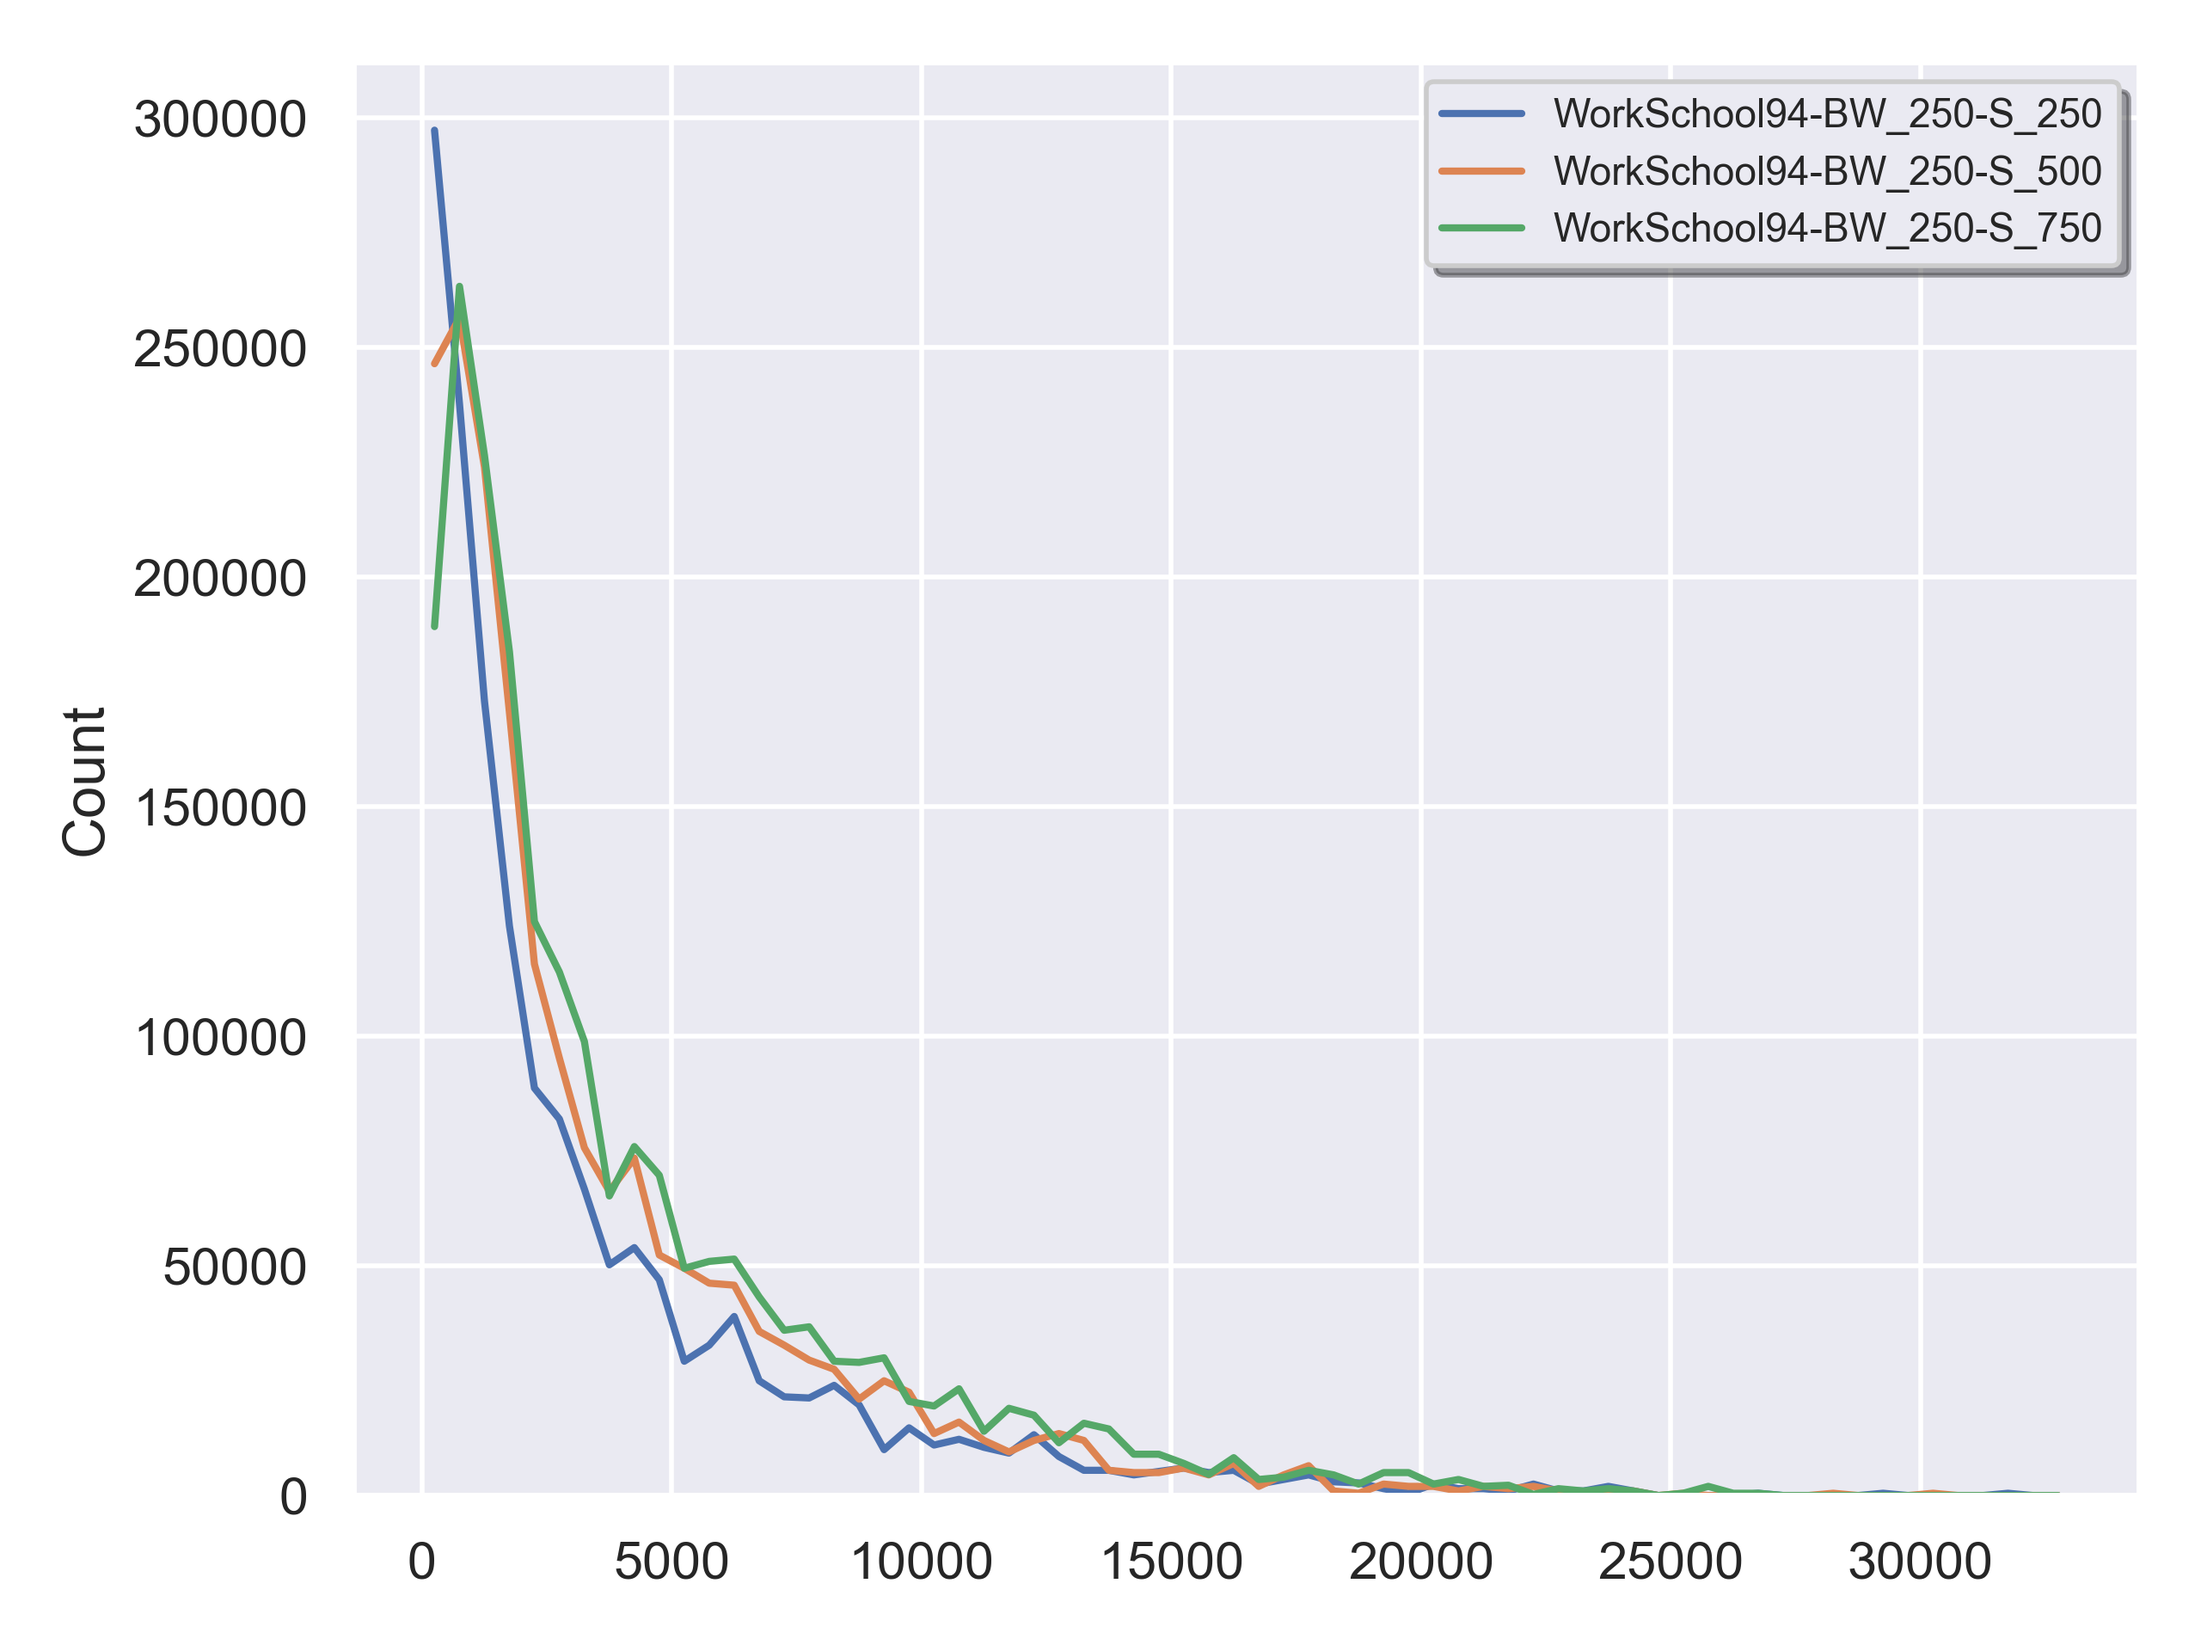
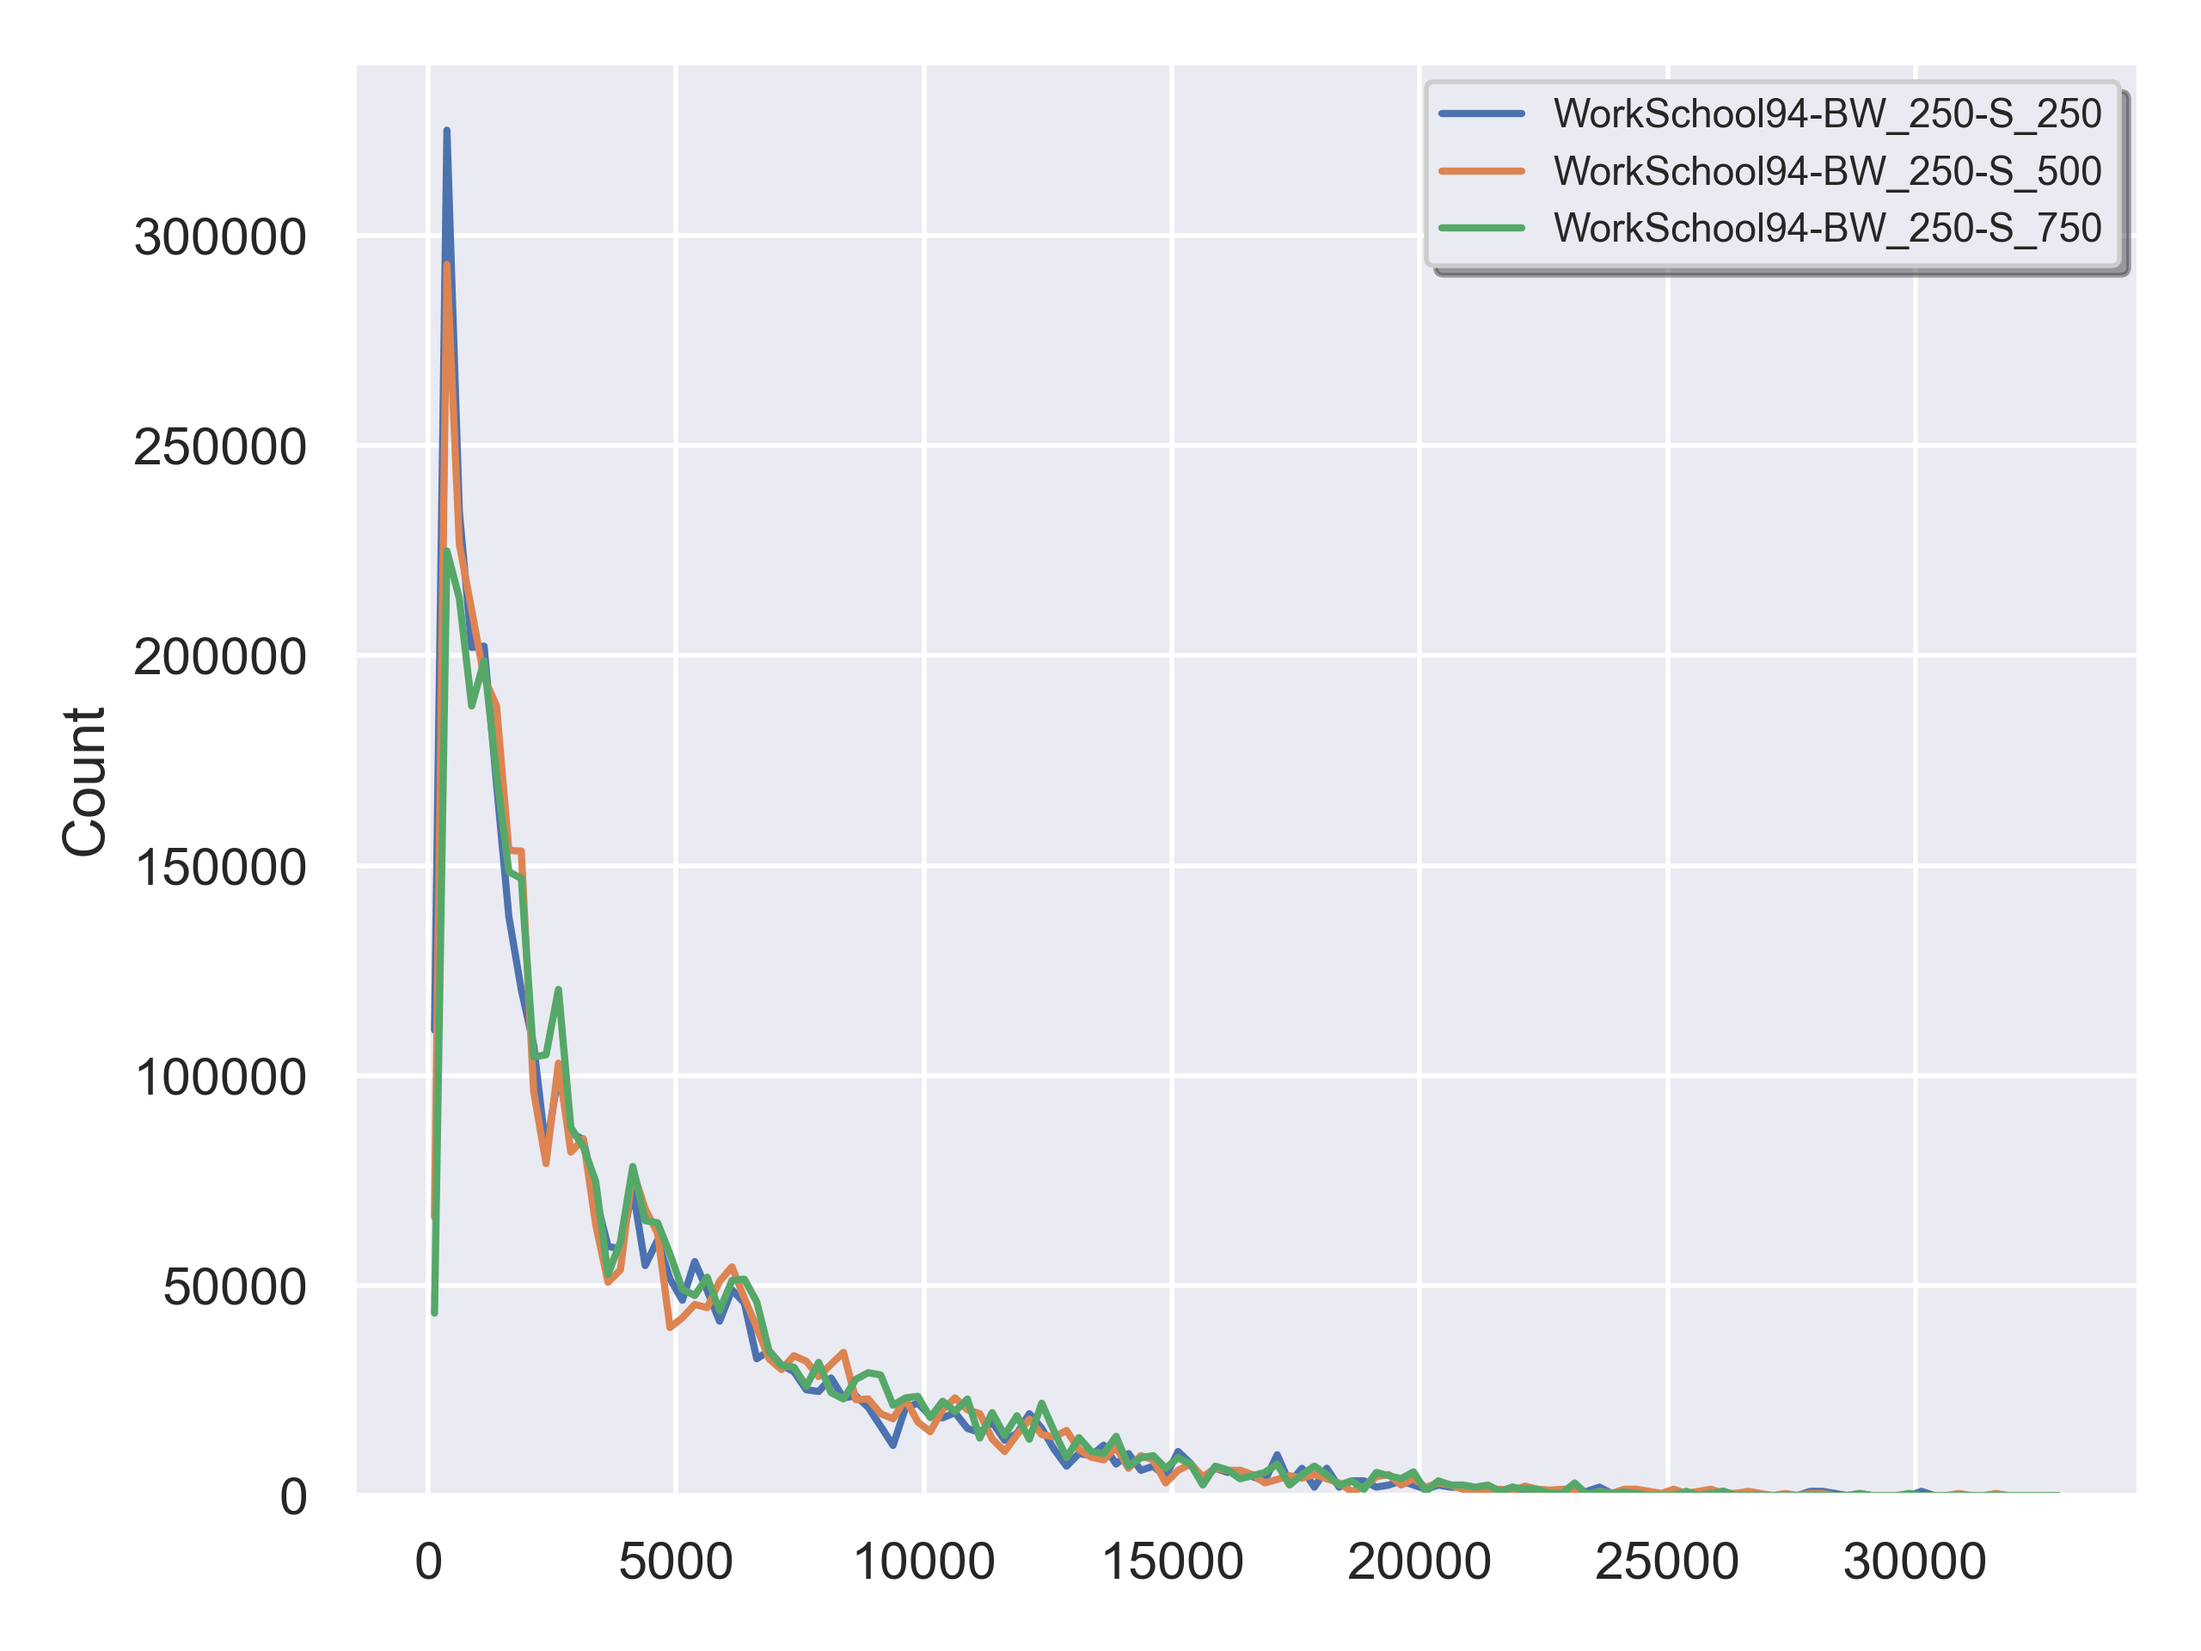
Levy walk sample redistirbution and Scale 3000 experiments

diff --git a/plugins/time_actions/levy_walk_plugin.py b/plugins/time_actions/levy_walk_plugin.py
@@ -134,7 +134,7 @@ class LevyWalkPlugin(environment.TimeActionPlugin):
         # Divides the population amount in packets to be sent to other nodes
         packets = node_population // _pop_group_size
 
-        #if values['region'] == "Azenha" and values['node'] == "home":
+        # if values['region'] == "Azenha" and values['node'] == "home":
         #    print("LEVY WALKING", cycle_step, packets, _mov_probability)
 
         # Generates sub-actions for each packet
@@ -145,20 +145,11 @@ class LevyWalkPlugin(environment.TimeActionPlugin):
             if _mov_probability < _random_number:
                 continue
 
-            sampled_dist = self.levy_sample(location=_dist_location, scale=_dist_scale)
-            self.sampled_distances.append(sampled_dist)
+            target_node_u_name = self.select_valid_target(location=_dist_location, 
+                                                          scale=_dist_scale,
+                                                          use_buckets=_use_buckets,
+                                                          distances=distances)
             
-            if _use_buckets:
-                selected = self.bucket_search(distances, sampled_dist)
-                if selected == None:
-                    continue
-                target_node_u_name:str = selected[0]
-            else:
-                ix = self.binary_search(distances, sampled_dist)
-                if ix == -1:
-                    continue
-                target_node_u_name:str =  distances[ix][0]
-
             target_region, target_node = target_node_u_name.split('//')
             target_region = self.graph.get_region_by_name(target_region)
             target_node = target_region.get_node_by_name(target_node)
@@ -181,6 +172,29 @@ class LevyWalkPlugin(environment.TimeActionPlugin):
         self.add_execution_time(time.perf_counter() - start_time)
         self.sublist_count.append(len(sub_list))
         return sub_list
+    
+    def select_valid_target(self, location:float, scale:float, use_buckets:bool, distances) -> str:
+        target_unique_name = ''
+        count = 0
+        sampled_dist = 0.0
+        while target_unique_name == '':
+            sampled_dist = self.levy_sample(location=location, scale=scale)
+            count += 1
+            if count > 100:
+                print("Levy Walk Plugin: could not find valid target in 100 tries")
+                exit()
+            if use_buckets:
+                selected = self.bucket_search(distances, sampled_dist)
+                if selected == None:
+                    continue
+                target_unique_name =  selected[0]
+            else:
+                ix = self.binary_search(distances, sampled_dist)
+                if ix == -1:
+                    continue
+                target_unique_name = distances[ix][0]
+        self.sampled_distances.append(sampled_dist)
+        return target_unique_name
     
     def get_node_distance_bucket(self, target_node:environment.EnvNode, graph:environment.EnvironmentGraph):
         '''Gets distances in buckets (based on overall distance)'''
@@ -208,13 +222,11 @@ class LevyWalkPlugin(environment.TimeActionPlugin):
         Raises an exception if the plugin shouldn't be using buckets
         '''
         __filtered = {}
-        if self.use_buckets:
-            for bucket in buckets_dict:
-                __filtered[bucket] = [dist for dist in buckets_dict[bucket] if 
-                                     str(dist[0]).split("//")[1] in target_nodes]
-                
-        else: 
+        if not self.use_buckets:
             raise Exception("Error in filter_target_node_types - Levy Walk Plugin")
+        for bucket in buckets_dict:
+            __filtered[bucket] = [dist for dist in buckets_dict[bucket] if 
+                                    str(dist[0]).split("//")[1] in target_nodes]
         return __filtered
 
     def levy_sample(self, location:Optional[float] = None,

diff --git a/misc_scripts/experiment_levy_samples.py b/misc_scripts/experiment_levy_samples.py
@@ -3,17 +3,16 @@ import sys
 sys.path.append('../')
 
 import argparse
-
 from pathlib import Path
-
-import pandas as pd
 
 import matplotlib.pyplot as plt
 import numpy as np
+import pandas as pd
 import seaborn as sns
-from scipy.stats import levy as scipy_levy
 
-def create_experiment_levy_sample_figure(experiment_name:str,
+
+def create_experiment_levy_sample_figure(experiment_name:str, 
+                                         additional_exp_path:str,
                                          bin_start:float, 
                                          bin_stop: float, 
                                          bin_step:float) -> None:
@@ -35,8 +34,9 @@ def create_experiment_levy_sample_figure(experiment_name:str,
     '''
     # Creates the directory if necessary
     __header:str = "Experiment Levy Samples:"
-    dir_path = Path(__file__).parent.parent / "output_logs" / experiment_name / "data_frames"
-    output_path = Path(__file__).parent.parent / "output_logs" / experiment_name / "results"
+    base_path = Path(__file__).parent.parent / "output_logs" / additional_exp_path / experiment_name
+    dir_path = base_path / "data_frames"
+    output_path = base_path / "results"
     output_path.mkdir(parents=True, exist_ok=True)
 
     df = pd.read_csv(dir_path / "levy_samples.csv", sep=';')
@@ -64,9 +64,10 @@ def create_experiment_levy_sample_figure(experiment_name:str,
 if __name__ == '__main__':
     arg_parser = argparse.ArgumentParser(description="Create Node Distante Distribution Figure.")
     arg_parser.add_argument('--e', metavar="E", type=str, default = None, help='Experiment Name (same as experiment configuration file)')
+    arg_parser.add_argument('--p', metavar="P", type=str, default = '', help='Additional experiment path')
     arg_parser.add_argument('--b', metavar="B", type=float, default = 0.0, help='Histogram Bins Begin/Start.')
     arg_parser.add_argument('--s', metavar="E", type=float, default = 40000, help='Histogram Bins End/Stop.')
     arg_parser.add_argument('--w', metavar="T", type=float, default = 500, help='Histogram Bins Width/Step/Size.')
     args = vars(arg_parser.parse_args())
-    create_experiment_levy_sample_figure(experiment_name=args['e'],
+    create_experiment_levy_sample_figure(experiment_name=args['e'], additional_exp_path=args['p'],
                                     bin_start=args['b'], bin_stop=args['s'], bin_step=args['w'])

diff --git a/TOMACS_simulation.py b/TOMACS_simulation.py
@@ -214,7 +214,7 @@ Simulation
 '''
 
 env_graph.LoadLoggerPlugin(pop_count_logger)
-env_graph.LoadLoggerPlugin(od_logger)
+# env_graph.LoadLoggerPlugin(od_logger)
 env_graph.LoadLoggerPlugin(blob_count_logger)
 # # env_graph.LoadLoggerPlugin(traceable_logger)
 # # env_graph.LoadLoggerPlugin(vacc_logger)
